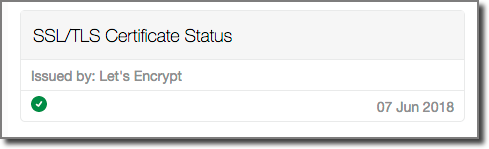
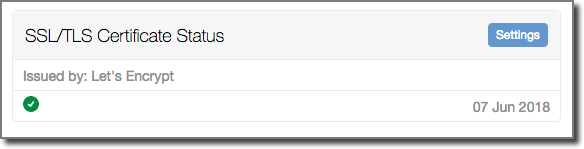
Addedsettings

diff --git a/dashboard.php b/dashboard.php
@@ -2,13 +2,9 @@
 	$API  = new PerchAPI(1.0, 'impeng_certdash');
 	$HTML = $API->get('HTML');
 	$Lang = $API->get('Lang');
-
-	// Change the number of days left for Alert (red)
-	$daysAlert = 14;
-	// change number of days left for certificate to be Good (green) 
-	$daysGood = 28;
-	// If days left is in between $daysAlert and $daysGood a Warning will be given (amber)
-
+    $Settings = $API->get('Settings');
+    $daysWarn = $Settings->get('impeng_certdash_warn')->val();
+    $daysAlert = $Settings->get('impeng_certdash_alert')->val();
 ?>
 <div class="widget">
 	<div class="dash-content">
@@ -16,21 +12,26 @@
 			<h2>
 			<?php echo $Lang->get('SSL/TLS Certificate Status'); ?>
 			</h2>
+			<a class="button button-small button-icon icon-left action-info" href="/perch/core/settings/#impeng_certdash">
+				<div>
+					<span>Settings</span>
+				</div>
+			</a>
 		</header>
 		<div class="body">
-		<?php
-			$url = "http://".$_SERVER['SERVER_NAME'];
-			$orignal_parse = parse_url($url, PHP_URL_HOST);
-			$get = stream_context_create(array("ssl" => array("capture_peer_cert" => TRUE)));
-			$read = stream_socket_client("ssl://".$orignal_parse.":443", $errno, $errstr, 30, STREAM_CLIENT_CONNECT, $get);
-			$cert = stream_context_get_params($read);
-			$certinfo = openssl_x509_parse($cert['options']['ssl']['peer_certificate']);
-			$certExpiryTime = $certinfo['validTo_time_t'];
-			$timeLeft = $certExpiryTime - time();
-			$daysLeft = intval($timeLeft/60/60/24);
-			$certName = $certinfo['issuer']['O'];
+			<?php
+				$url = "http://".$_SERVER['SERVER_NAME'];
+				$orignal_parse = parse_url($url, PHP_URL_HOST);
+				$get = stream_context_create(array("ssl" => array("capture_peer_cert" => TRUE)));
+				$read = stream_socket_client("ssl://".$orignal_parse.":443", $errno, $errstr, 30, STREAM_CLIENT_CONNECT, $get);
+				$cert = stream_context_get_params($read);
+				$certinfo = openssl_x509_parse($cert['options']['ssl']['peer_certificate']);
+				$certExpiryTime = $certinfo['validTo_time_t'];
+				$timeLeft = $certExpiryTime - time();
+				$daysLeft = intval($timeLeft/60/60/24);
+				$certName = $certinfo['issuer']['O'];
 
-			echo '<ul class="dash-list">';
+				echo '<ul class="dash-list">';
 					echo "<li>";
 						echo '<span class="note">'.$Lang->get('Issued by: ').$certName.'</span>';
 					echo "</li>";
@@ -41,11 +42,11 @@
 								echo PerchUI::icon('core/circle-delete', 16, null, 'icon-status-alert');
 								break;
 
-							case ($daysLeft > $daysAlert && $daysLeft < $daysGood) :
+							case ($daysLeft > $daysAlert && $daysLeft < $daysWarn) :
 								echo PerchUI::icon('core/alert', 16, null, 'icon-status-warning');
 								break;
 
-							case ($daysLeft > $daysGood) :
+							case ($daysLeft > $daysWarn) :
 								echo PerchUI::icon('core/circle-check', 16, null, 'icon-status-success');
 								break;
 
@@ -56,8 +57,8 @@
 						}
 						echo '<span class="note">'.strftime(PERCH_DATE_SHORT, $certExpiryTime).'</span>';
 					echo "</li>";
-				?>
-			</ul>
+				echo "</ul>";
+			?>
 		</div>
 	</div>
 </div>

diff --git a/admin.php b/admin.php
@@ -1,6 +1,12 @@
 <?php
    	if ($CurrentUser->logged_in()) {
-   		$this->register_app('impeng_certdash', 'Cert Widget', 1, 'Dashboard Widget to show staus of SSL/TLS certificate', '0.1', true);
+   		$this->register_app('impeng_certdash', 'SSL/TLS Certificate Status', 1, 'Dashboard Widget to show status of SSL/TLS certificate', '0.2', true);
     	$this->require_version('impeng_certdash', '3.0');
-	}
+    	$opts = array();
+    	foreach (range(0, 30) as $number) {
+    		$opts[] = array('label'=>$number, 'value'=>$number);
+		  }
+      $this->add_setting('impeng_certdash_warn', 'Remaining days for warning (default 28)', 'select', 28, $opts);
+      $this->add_setting('impeng_certdash_alert', 'Remaining days for alert (default 14)', 'select', 14, $opts);
+    }
 ?>

diff --git a/README.md b/README.md
@@ -1,7 +1,7 @@
 # Perch SSL/TLS Certificate Status Dashboard Widget
 
 
-A Perch dashboard widget that shows when the SSL/TLS certificate will expire. 
+A Perch dashboard widget that shows when the installed SSL/TLS certificate will expire. 
 
 It was created to give a headline indication that short duration certificates, like those from [Let's Encrypt](https://letsencrypt.org/), are being actiively being renewed.
 
@@ -11,32 +11,36 @@ Application name: impeng_certdash
 
 ## Installation
 
-copy the impeng_certdash folder from inside the downloaded folder into the folder perch/addons/apps/
+copy the `impeng_certdash` folder from inside the downloaded folder into the folder `perch/addons/apps/`.
 No other actions are needed.
 
 ## Configuration
 
 With more than 28 days remaining befor the certificate expiry the indicator will be green.
 
-The indicator changes to the standard Perch Warning symbol when the certificate is within 28 days of expiry. 
+The indicator changes to the standard Perch warning symbol when the certificate is within 28 days of expiry. 
 
-It then changes to the Perch Alert symbol when the certificate is within 21 days of expiry. 
+It then changes to the Perch alert symbol when the certificate is within 14 days of expiry. 
 
-These figures can be altered in the first few lines of of the file /impeng_certdash/dashboard.php
+The number of days for each warning level can be altered on the settings page which can be also be accessed using the link in the widgets heading bar.
 
-## Warning
+![Screenshot](images/impeng_certdash-screenshot3.png)
+
+## Limitations
 
 The widget does not make any attempt (as yet) to validate that the current domain is covered by the certificate (Common Name or Alternative Names).
 
-It is designed to be used when certificates are installed and working and will then give a indication if certificates are about to expire.
+It is designed to be used when certificates are already installed, tested and working. 
 
 ## Troubleshooting
 
-If your certificate is not valid the widget will look like this:
+If your certificate is not valid or your server is not responding to https on port 443 the widget will look like this:
 
 ![Screenshot](images/impeng_certdash-screenshot2.png)
 
-The app has been tested with Let's Encrypt certificates on several domains. If it's not working with your certificate let us know. But please ensure you have a valid cert first. I use the SSL checker at [SSLShopper](https://www.sslshopper.com/ssl-checker.html).
+The app has been tested with Let's Encrypt certificates on several domains. If it's not working with your certificate let us know. But please ensure you have a valid certificate first. A good SSL checker can be found at [SSL Labs](https://www.ssllabs.com/ssltest/).
+
+
 
 
 
